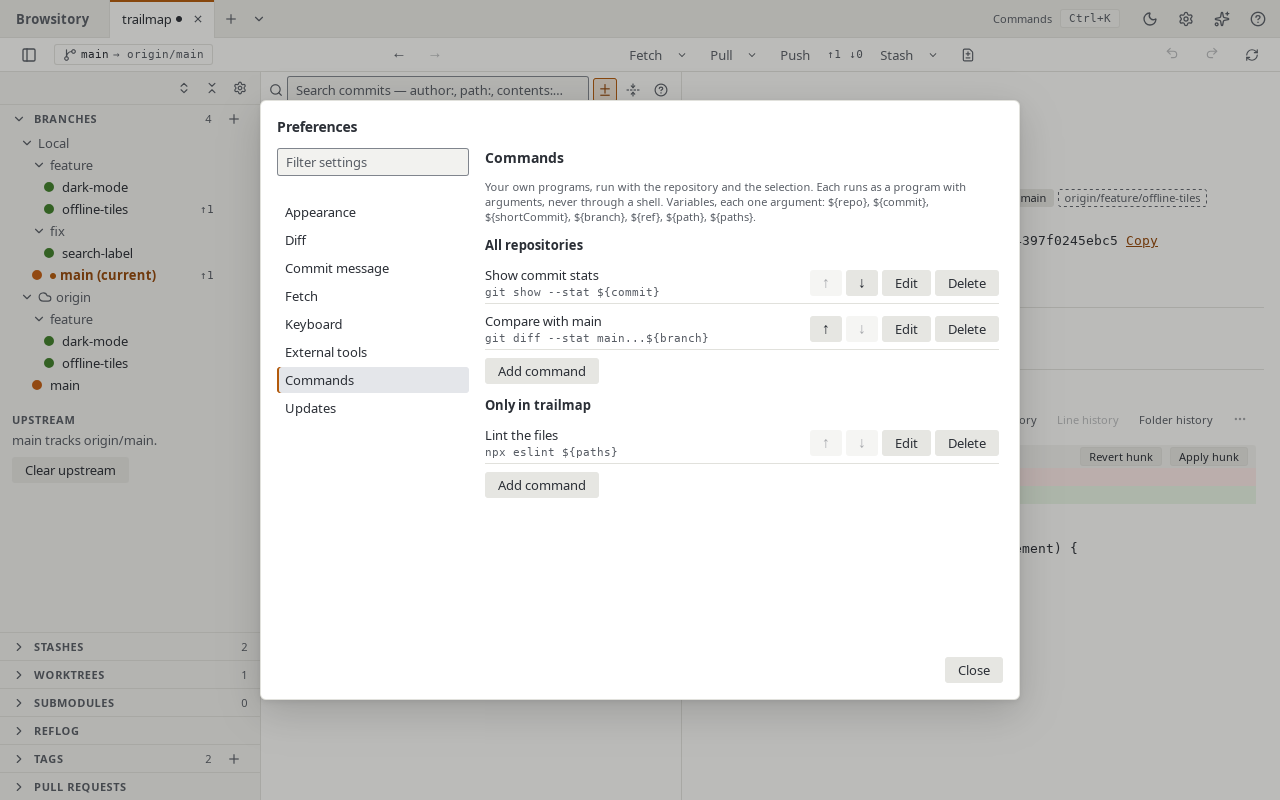
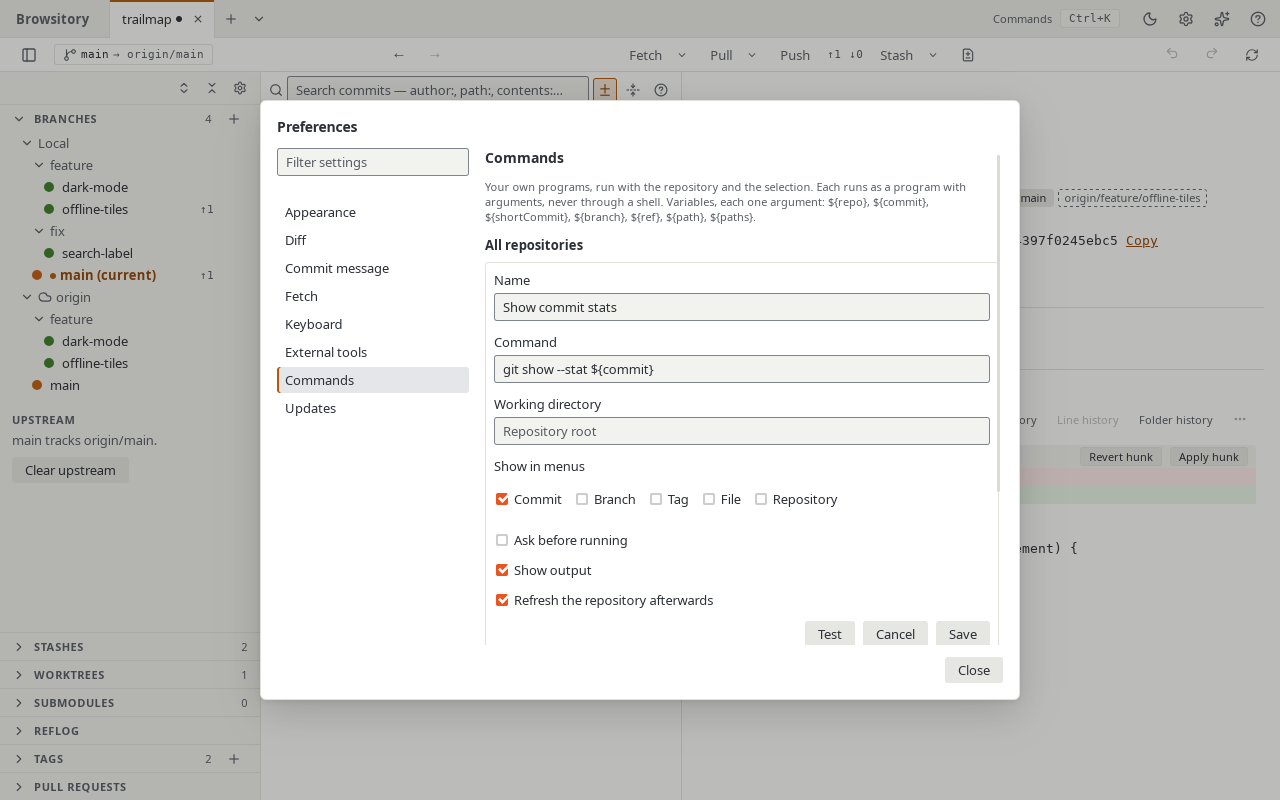
Screenshots: Preferences → Commands with a command open in its editor (#970)
With the checkboxes next to their labels, the shot shows the editor of
the first command: its fields, menus and options.

Claude-Session: https://claude.ai/code/session_01A4tHCJjnzi8pBrcnnZcgkk

diff --git a/e2e/screenshots/capture.docs.ts b/e2e/screenshots/capture.docs.ts
@@ -220,13 +220,18 @@ describe("Documentation screenshots", () => {
     await openPreferencesGroup("Commands");
     await $("legend=Commands").waitForDisplayed();
     // Two commands for every repository and one for the demo only, added as a user would (#893).
-    // The lists only: the editor's checkboxes stack above their labels for now (#970).
     await addUserCommand("all repositories", "All repositories", "Show commit stats", "git show --stat ${commit}", ["Commit"]);
     await addUserCommand("all repositories", "All repositories", "Compare with main", "git diff --stat main...${branch}", [
       "Branch",
     ]);
     await addUserCommand("trailmap", "Only in trailmap", "Lint the files", "npx eslint ${paths}", ["File"]);
+    // The first one open in its editor: its fields, menus and options.
+    const editor = 'form[aria-label="Edit Show commit stats"]';
+    await click('button[aria-label="Edit Show commit stats"]');
+    await $(editor).waitForDisplayed();
     await shoot("preferences-commands");
+    await clickInPage(`${editor} button`, "Cancel");
+    await $(editor).waitForExist({ reverse: true });
     await closePreferences();
   });
 

diff --git a/e2e/screenshots/README.md b/e2e/screenshots/README.md
@@ -54,7 +54,7 @@ Then look at every changed image before you commit it.
 | `preferences.png` | Preferences, open on the Appearance group |
 | `command-palette.png` | The command palette, filtered to "branch" |
 | `preferences-keyboard.png` | Preferences, open on the Keyboard group |
-| `preferences-commands.png` | Preferences, open on the Commands group: two commands for every repository, one for the demo only |
+| `preferences-commands.png` | Preferences, open on the Commands group: three commands added (two for every repository, one for the demo), the first open in its editor |
 | `operation-log.png` | The operation log on a push its pre-push hook refused, with the hook's output (a local `backup` remote, removed again afterwards) |
 | `conflict.png` | A merge stopped on a conflict, with the resolve controls |
 | `dark-theme.png` | The same conflict in the dark theme |

diff --git a/docs/guide/user-commands.md b/docs/guide/user-commands.md
@@ -26,7 +26,7 @@ without running anything. **Save** checks the command first and says what is wro
 can't run, such as an unknown variable. Use the arrows to change the order the menus and the
 palette list your commands in, and **Delete** to remove one.
 
-![Preferences, open on the Commands group: two commands for all repositories, one for this repository only](assets/preferences-commands.png)
+![Preferences, open on the Commands group, editing a command: its name, command line, menus and options](assets/preferences-commands.png)
 
 ## Variables
 
